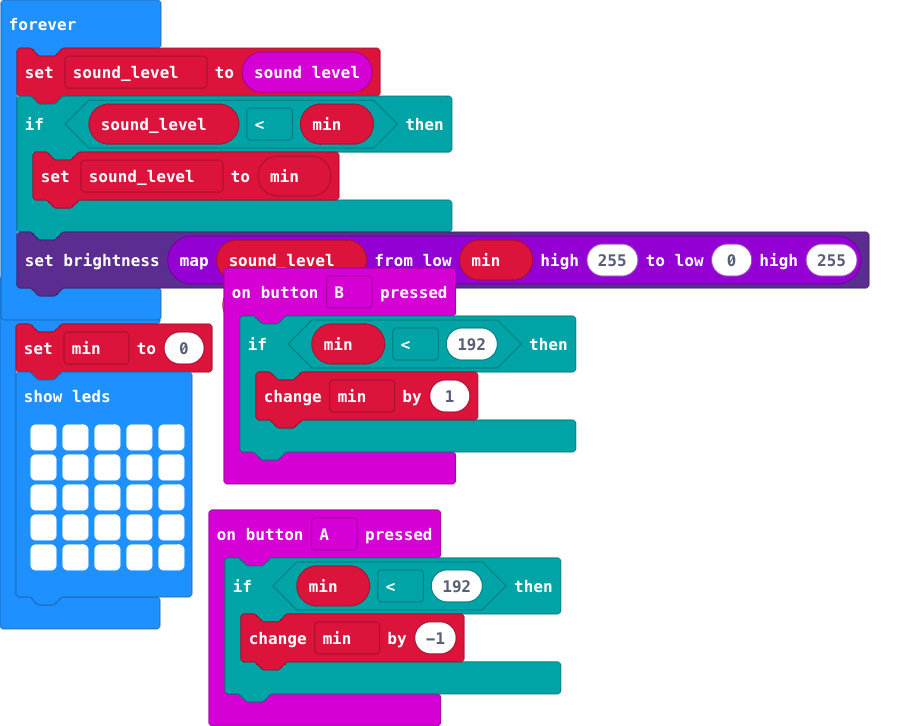
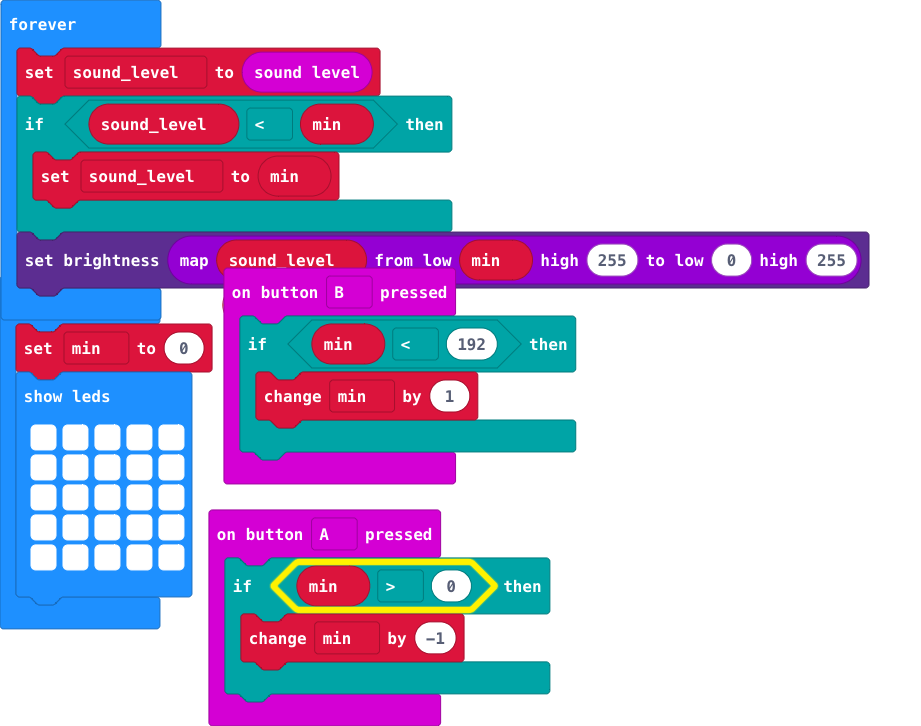
Update main.blocks, main.ts

Changed region(s): [[0.2736, 0.7576, 0.608, 0.8485], [0.5776, 0.9091, 0.608, 0.9697]]

diff --git a/main.ts b/main.ts
@@ -1,5 +1,5 @@
 input.onButtonPressed(Button.A, function () {
-    if (min < 192) {
+    if (min > 0) {
         min += -1
     }
 })
